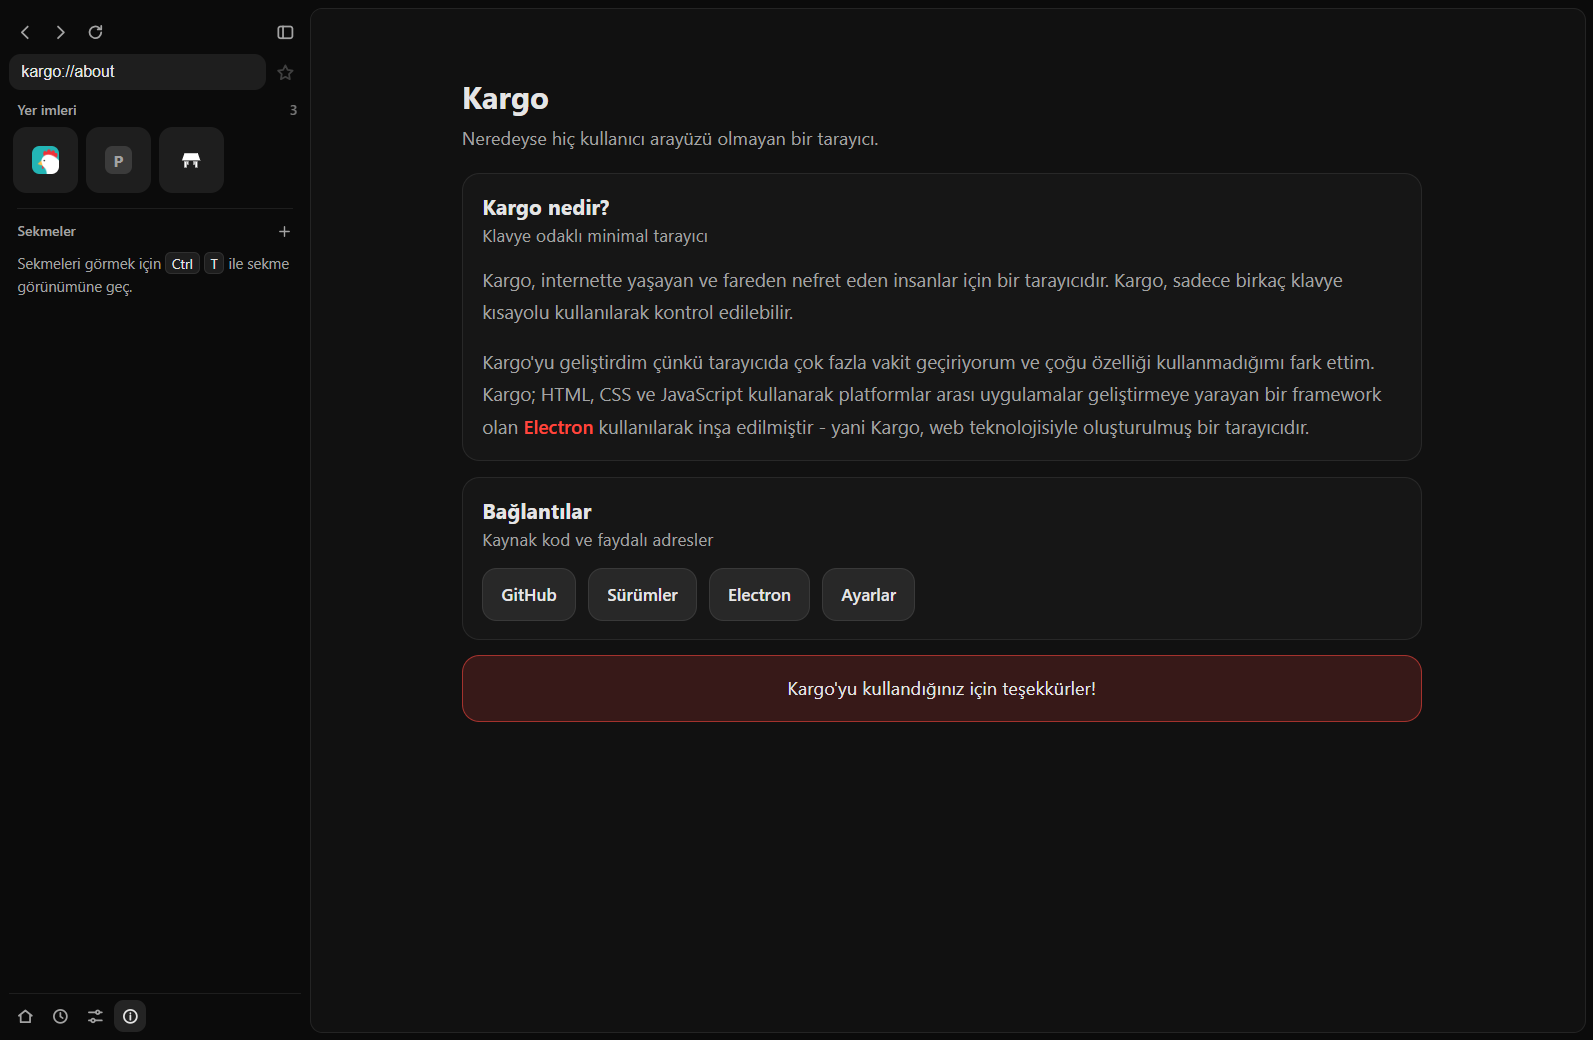
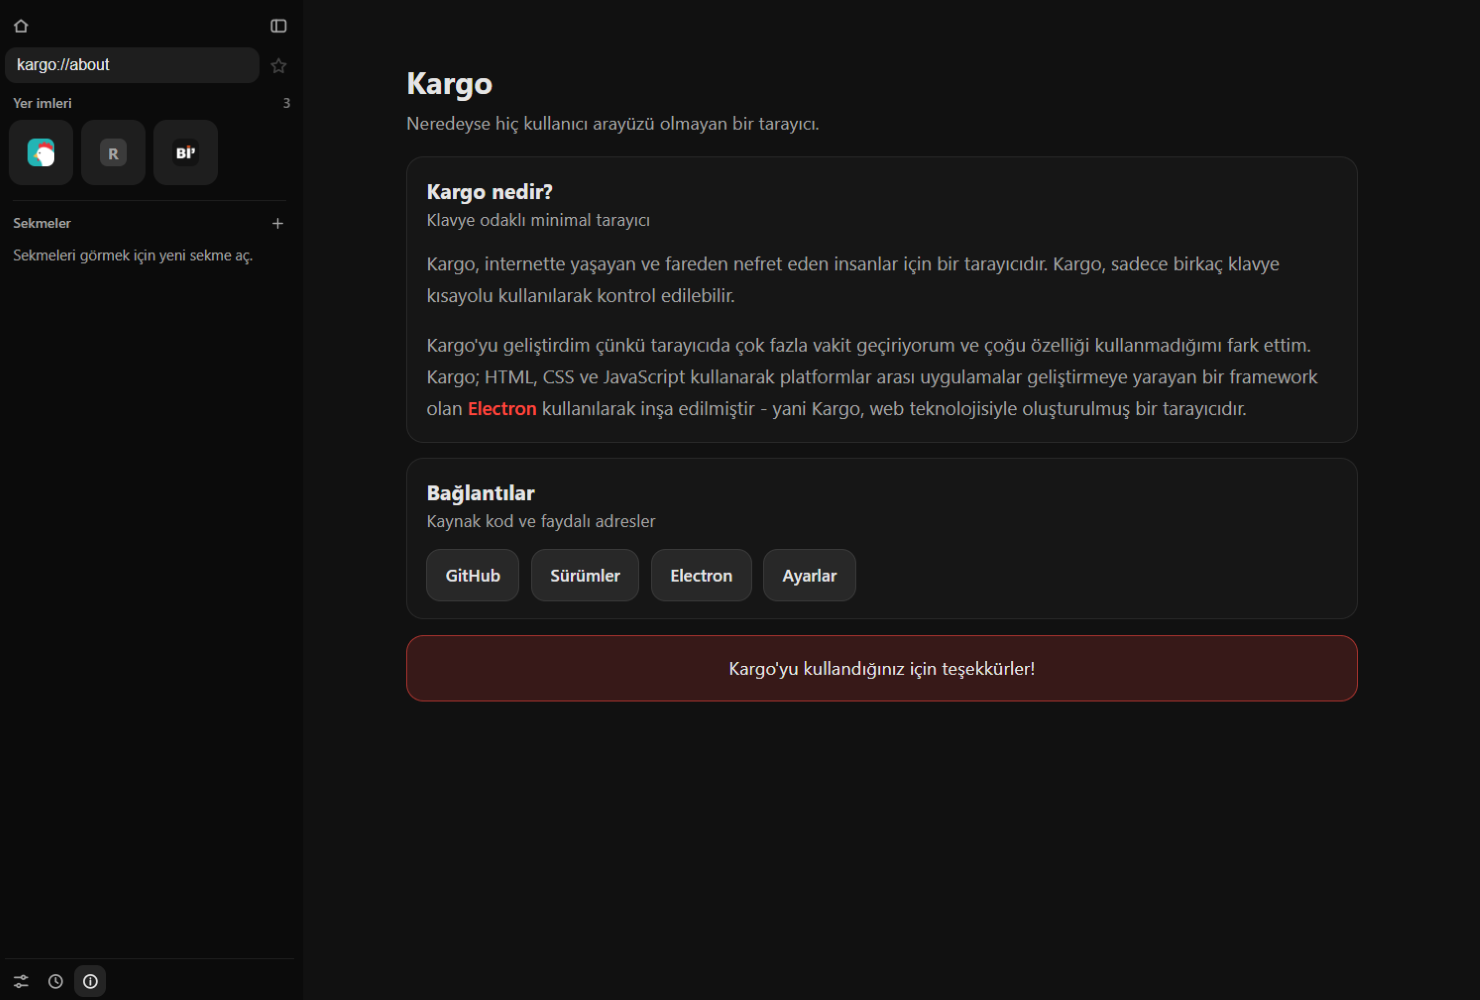
Docs update

diff --git a/docs/index.html b/docs/index.html
@@ -7,7 +7,7 @@
 		<meta name="description" content="Kargo, neredeyse hiç kullanıcı arayüzü olmayan, klavye odaklı minimalist bir masaüstü tarayıcısıdır. Chromium tabanlıdır ve Electron ile geliştirilmiştir." />
 		<meta property="og:title" content="Kargo" />
 		<meta property="og:description" content="Neredeyse hiç kullanıcı arayüzü olmayan, klavye odaklı minimalist bir tarayıcı." />
-		<meta property="og:image" content="https://aardaakpinar.github.io/kargo/example.png" />
+		<meta property="og:image" content="https://aardaakpinar.github.io/kargo/screenshot/cargo_home.png" />
 		<meta property="og:url" content="https://aardaakpinar.github.io/kargo/" />
 		<meta property="og:type" content="website" />
 		<link rel="stylesheet" href="./styles.css" />
@@ -39,7 +39,7 @@
 				</div>
 
 				<figure class="app-preview">
-					<img src="./example.png" alt="Kargo tarayıcısının Windows üzerindeki ana sayfası" />
+					<img src="./screenshot/cargo_home.png" alt="Kargo tarayıcısının Windows üzerindeki ana sayfası" />
 				</figure>
 			</section>
 

diff --git a/README.md b/README.md
@@ -30,9 +30,9 @@ Denemek veya yüklemek için önceden derlenmiş [sürümlerimizden (binaries)](
 
 ![Home](./docs/screenshot/cargo_home.png)
 
-##### Duckduckgo (varsayılan arama motoru)
+##### Windows üzerinde Kargo Kompakt Mod
 
-![DDG](./docs/screenshot/cargo_ddg.png)
+![DDG](./docs/screenshot/cargo_compact.png)
 
 ##### Windows üzerinde Kargo hakkında sayfası
 
